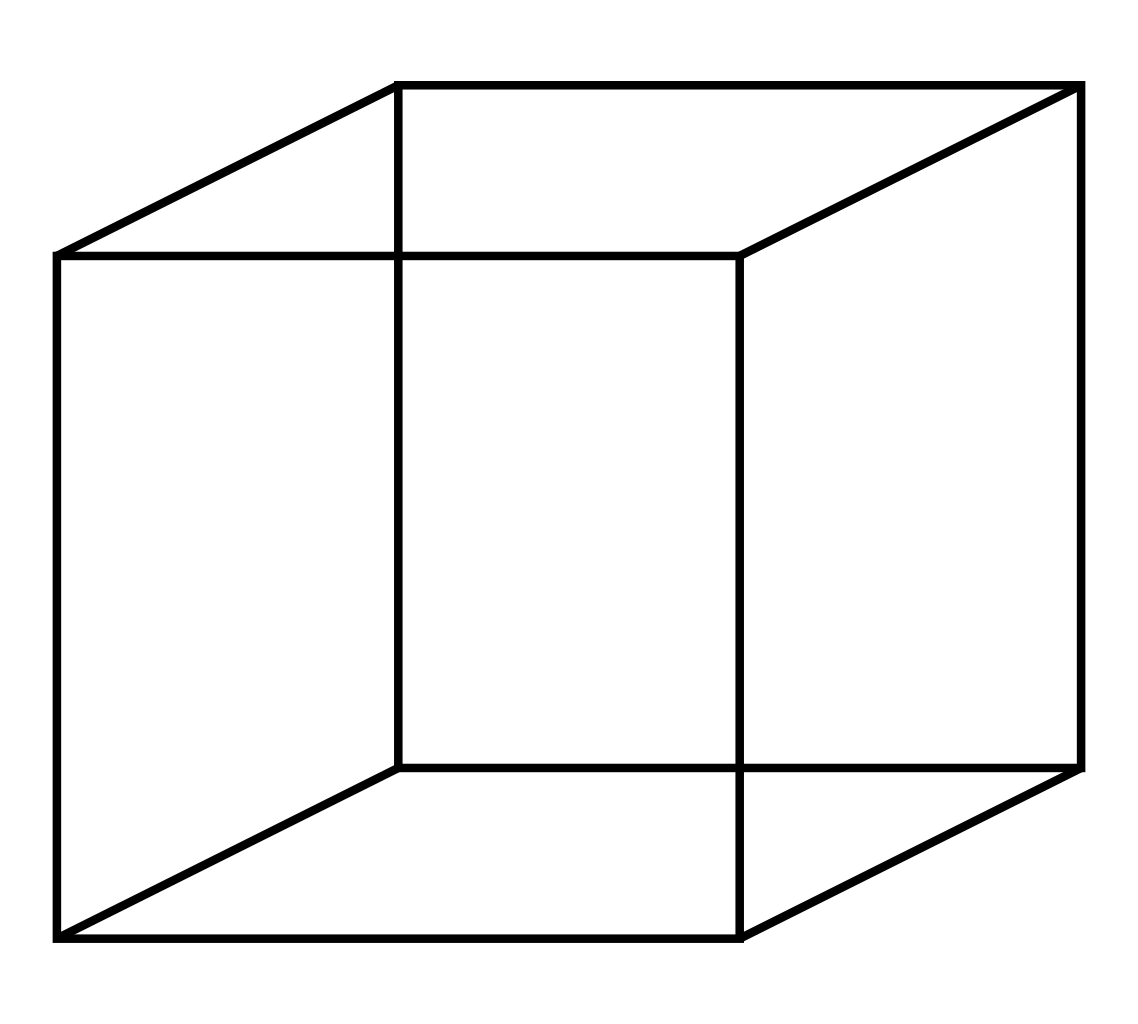
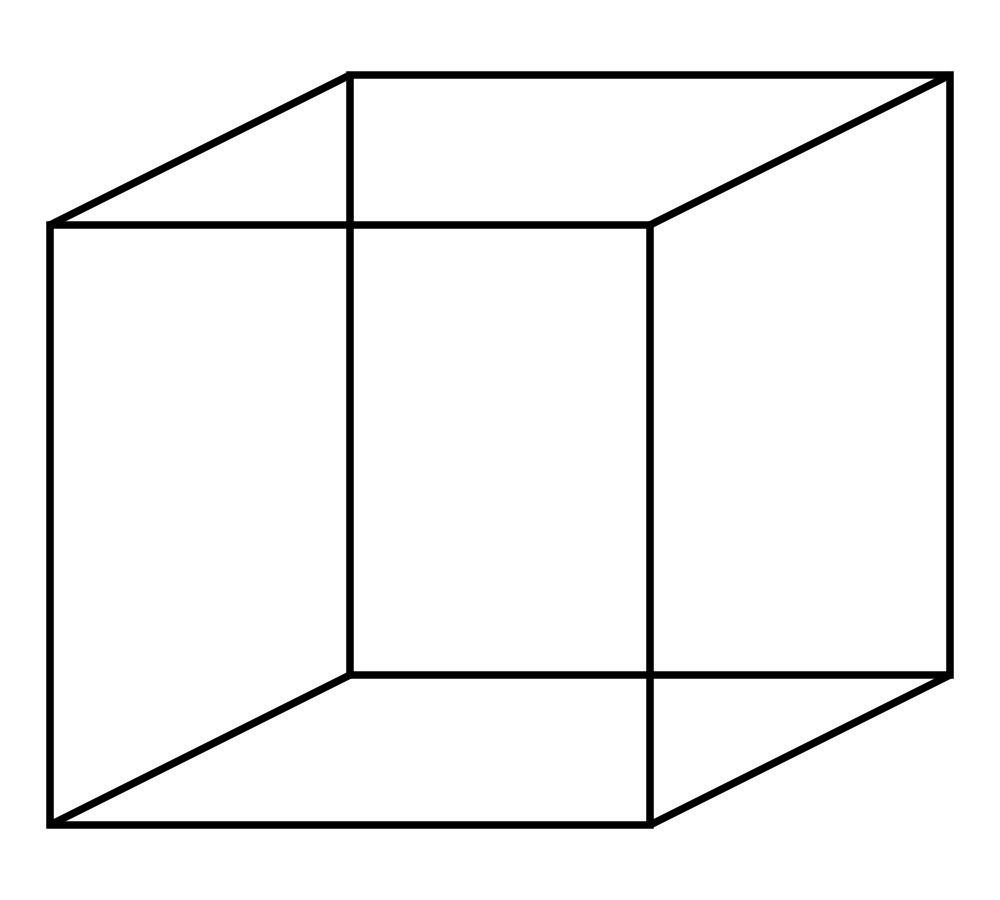
choose and document specific cube

Changed region(s): [[0.93, 0.7156, 0.961, 0.7467], [0.93, 0.0933, 0.961, 0.1244], [0.031, 0.2489, 0.062, 0.28]]

diff --git a/20141023-rjstat_lightning/index.html b/20141023-rjstat_lightning/index.html
@@ -67,6 +67,7 @@ Aaron,2014,70
 <hr />
 <p><img alt="cube" src="cube.png" /></p>
 <hr />
+<p>(<a href="http://commons.wikimedia.org/wiki/File:Necker_cube.svg">Image</a> (<a href="http://upload.wikimedia.org/wikipedia/commons/thumb/e/e7/Necker_cube.svg/1000px-Necker_cube.svg.png">1000-pixel PNG</a>)from <a href="http://commons.wikimedia.org/">Wikimedia Commons</a>).)</p>
 <p>For data cubes!</p>
 <p>Xavier Badosa</p>
 <p>http://json-stat.org/</p>

diff --git a/20141023-rjstat_lightning/index.md b/20141023-rjstat_lightning/index.md
@@ -91,6 +91,8 @@ Could also split into multiple tables. "Goal" is to get single value column. Why
 
 -----
 
+([Image](http://commons.wikimedia.org/wiki/File:Necker_cube.svg) ([1000-pixel PNG](http://upload.wikimedia.org/wikipedia/commons/thumb/e/e7/Necker_cube.svg/1000px-Necker_cube.svg.png))from [Wikimedia Commons](http://commons.wikimedia.org/)).)
+
 For data cubes!
 
 Xavier Badosa
